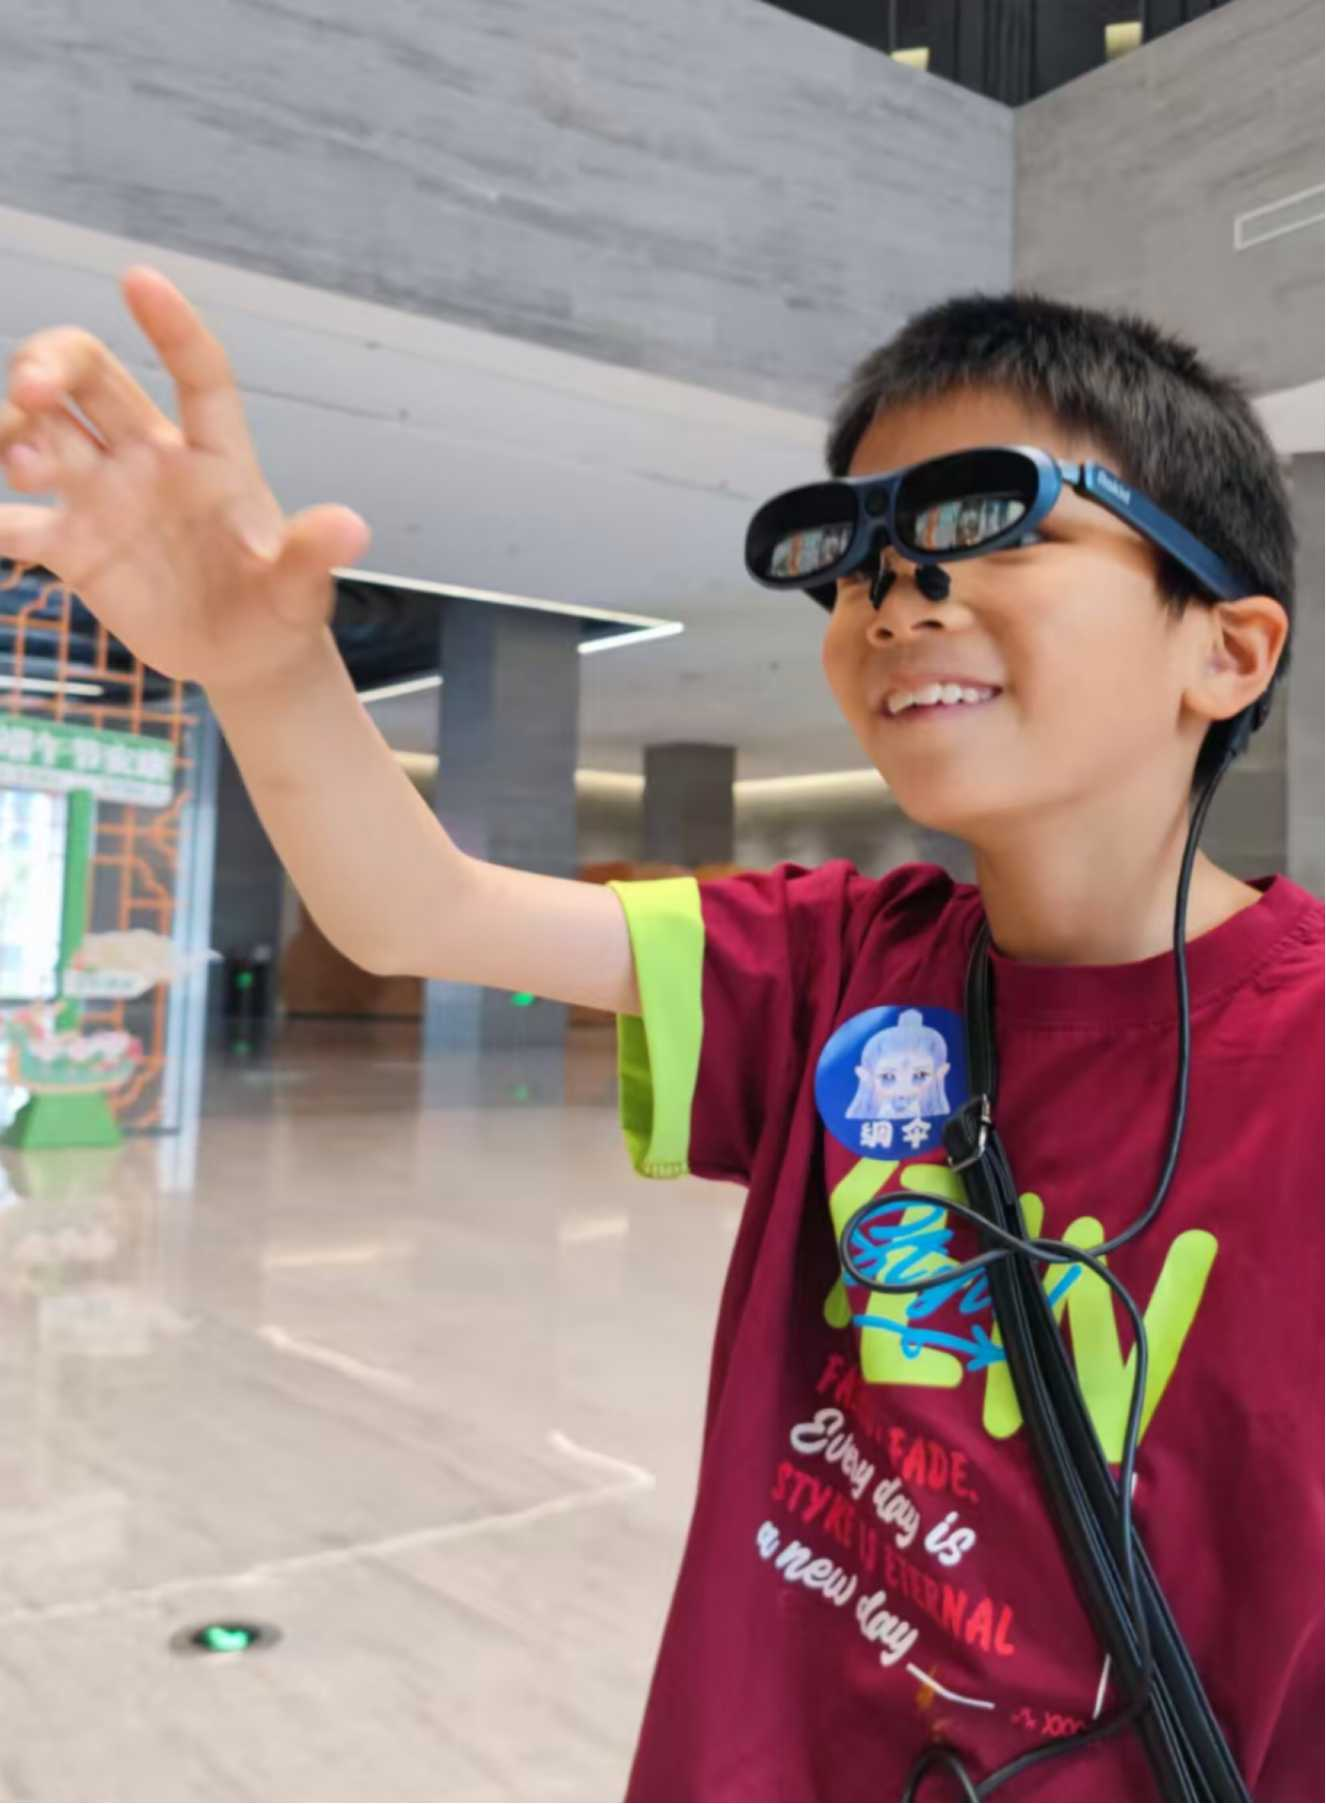
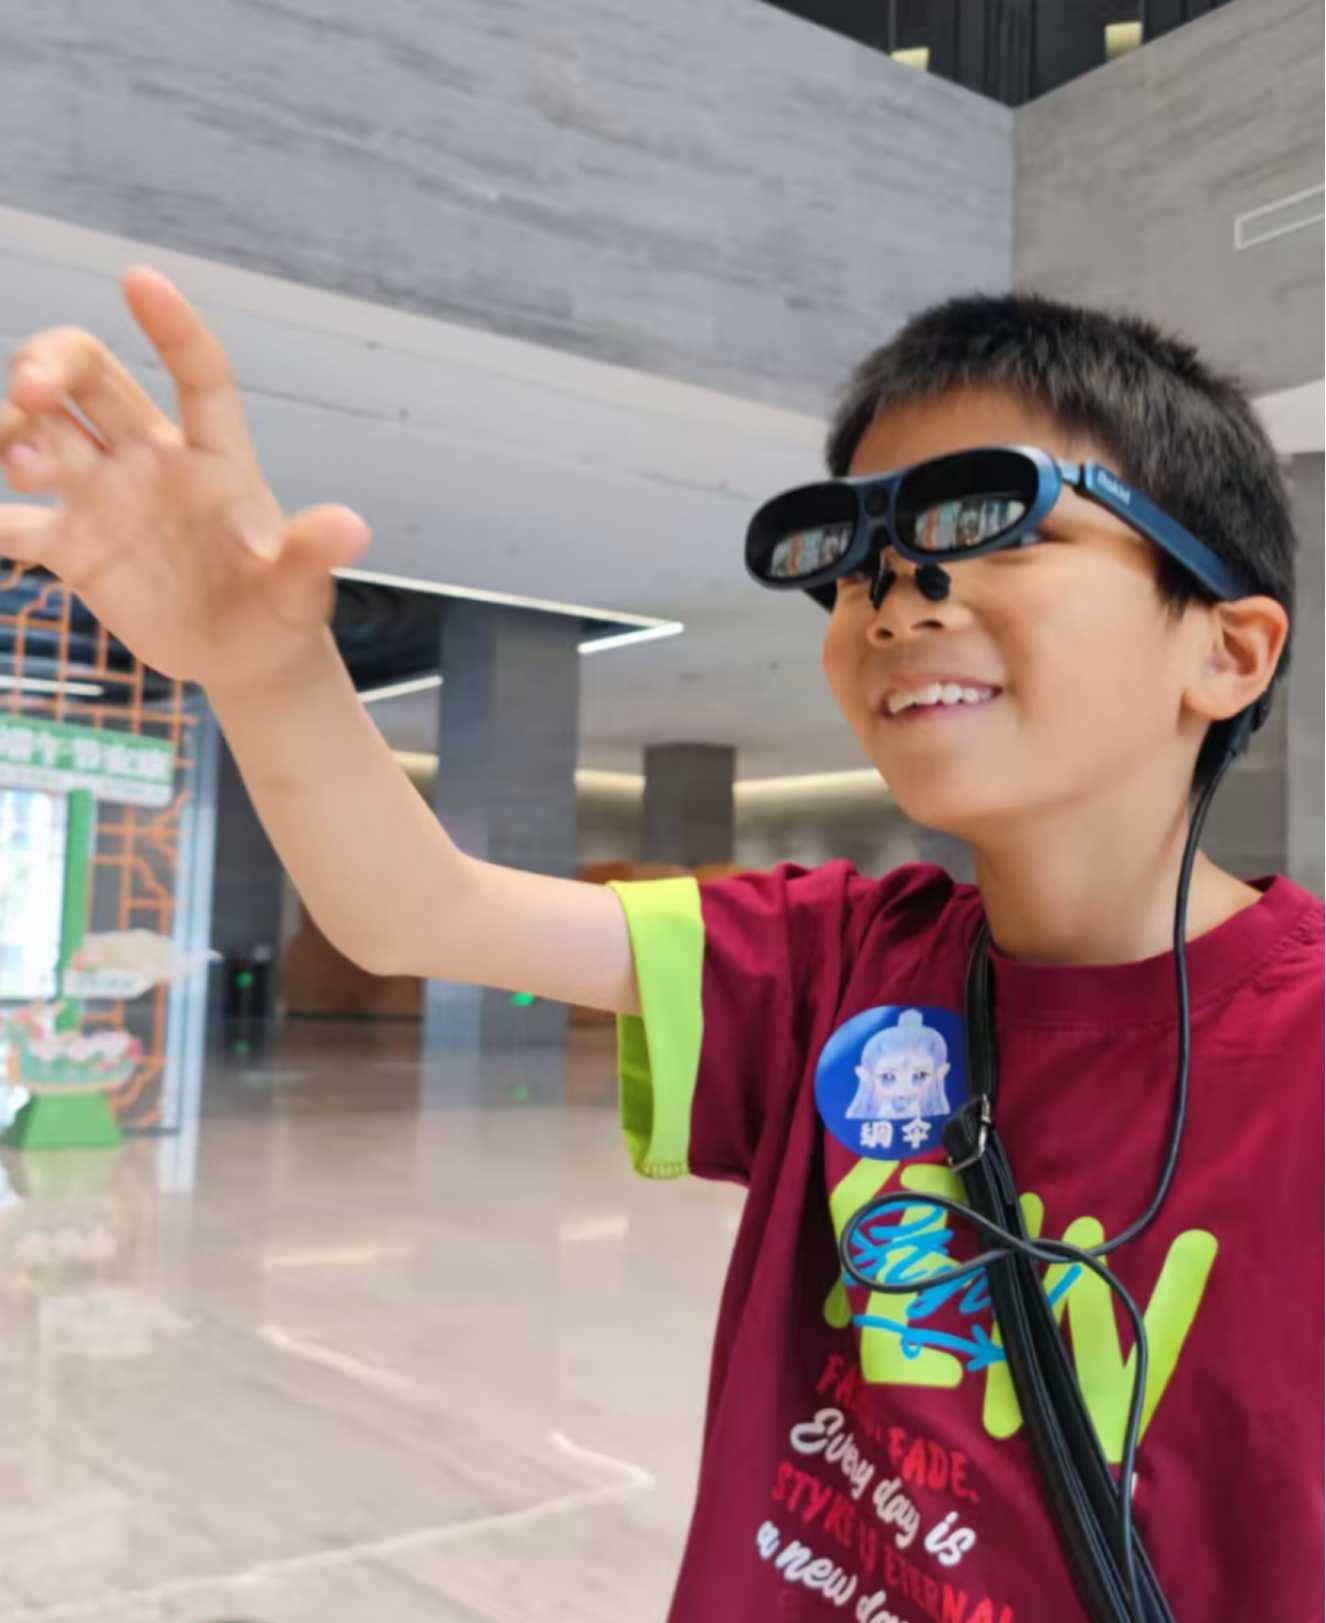
fix: 调整农商行财政厅项目最后一张图片显示
- 裁剪图片底部10%内容，保留更多顶部区域
- 添加 object-top 类名，确保图片从顶部开始显示
- 解决孩子头部被裁掉的问题

diff --git a/src/app/cases/page.tsx b/src/app/cases/page.tsx
@@ -355,7 +355,7 @@ export default function CasesPage() {
                             <img
                               src={image}
                               alt={`${caseItem.title} ${index + 1}`}
-                              className="w-full h-full object-cover"
+                              className="w-full h-full object-cover object-top"
                             />
                           </div>
                         </div>
